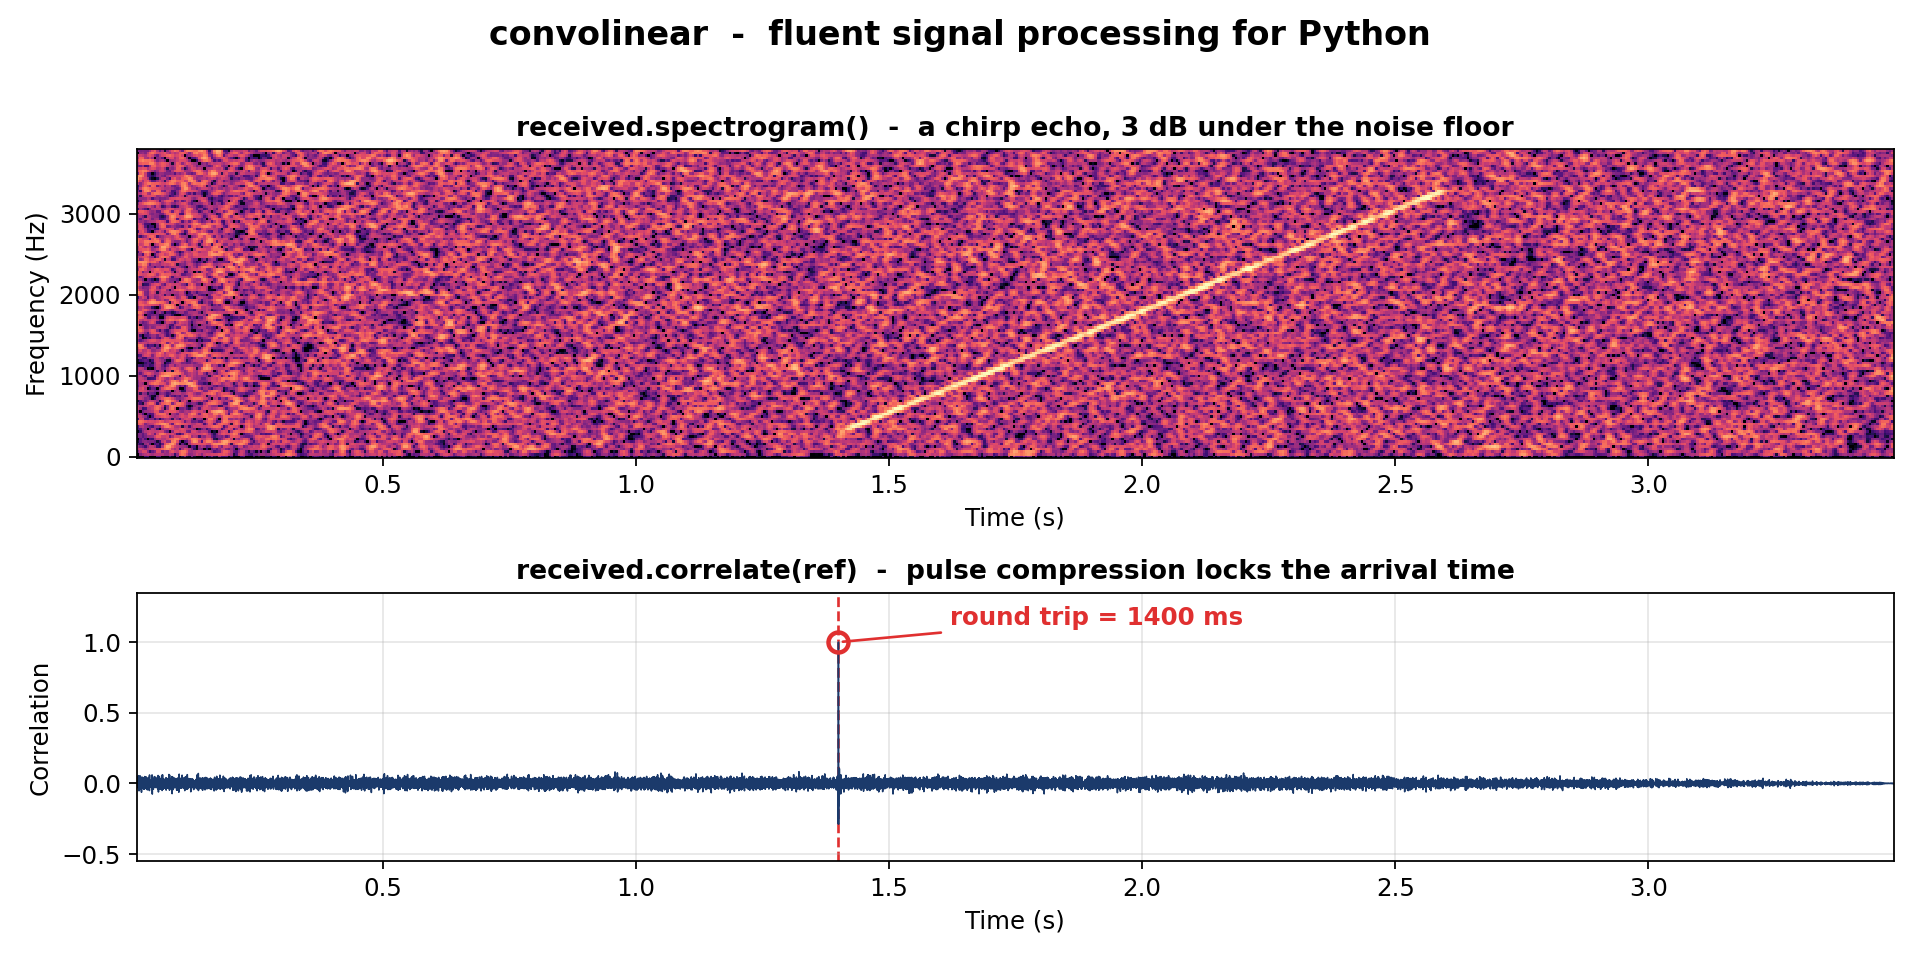
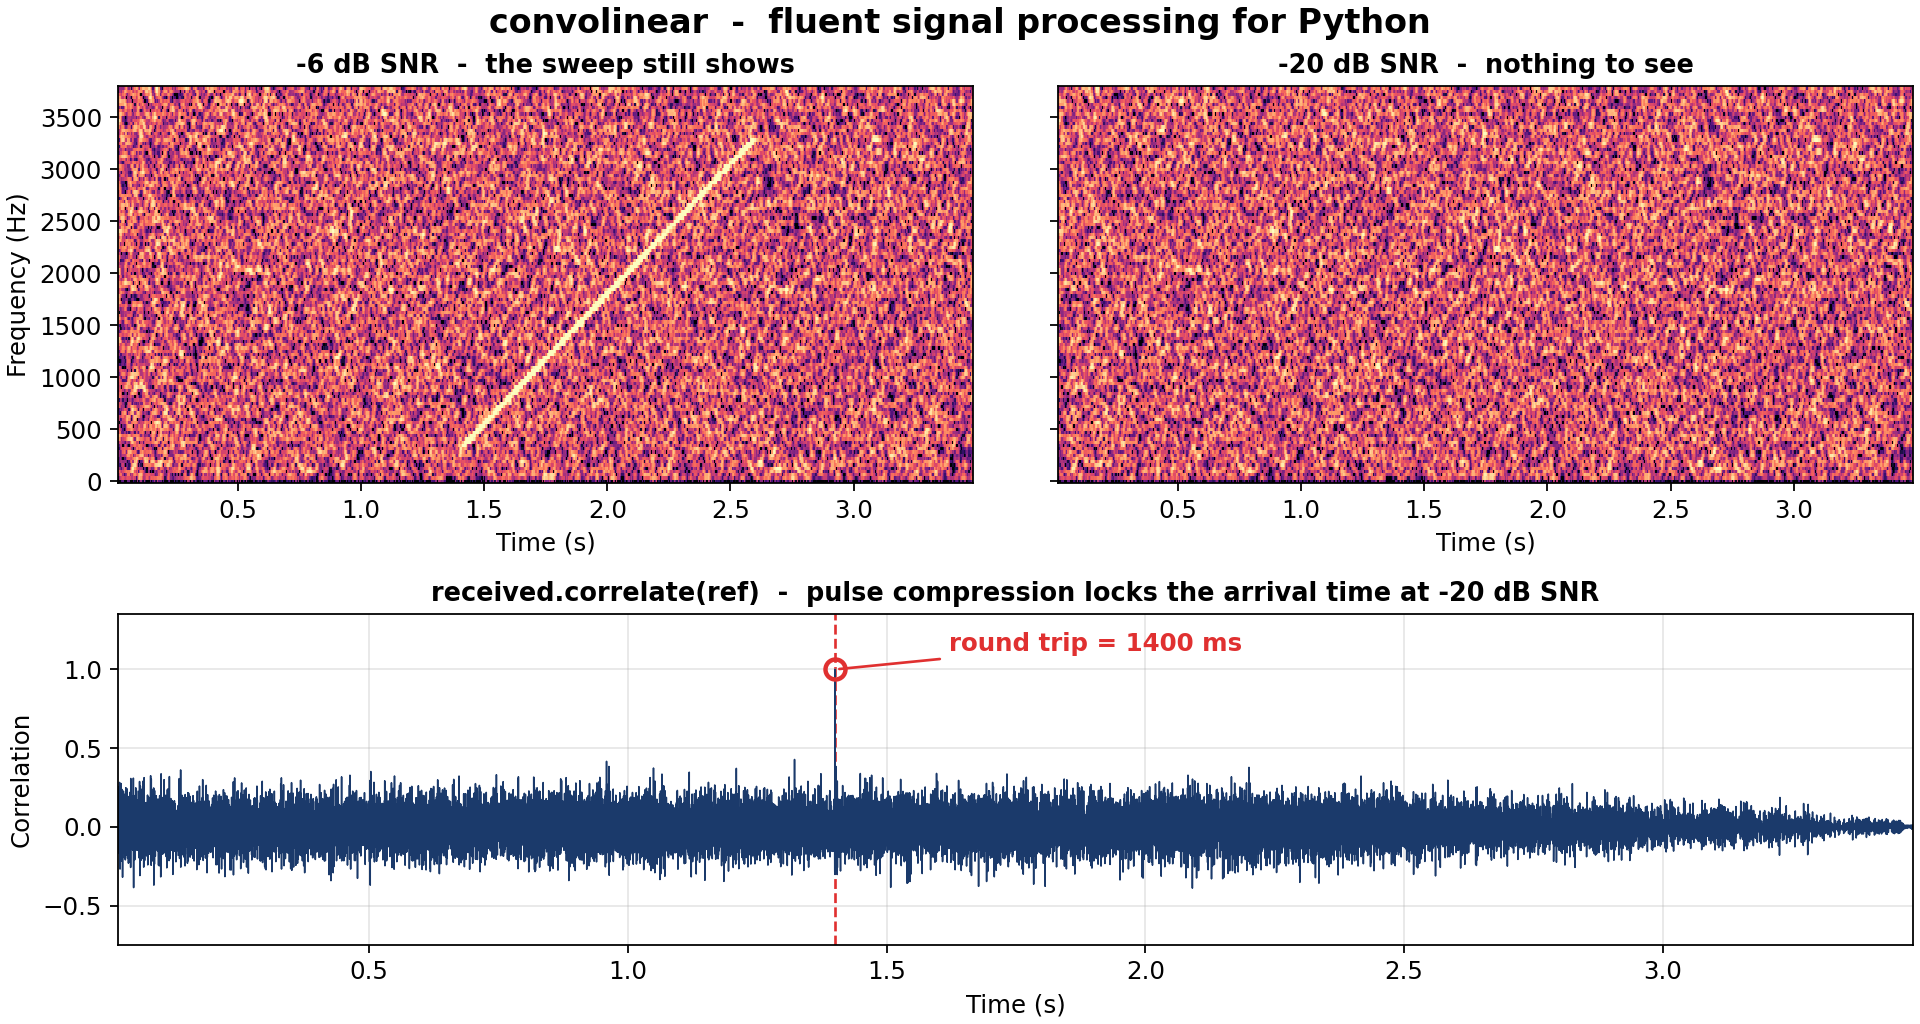
docs: update hero example and image to -20 dB SNR

diff --git a/examples/hero.py b/examples/hero.py
@@ -3,7 +3,17 @@
 Transmit a known wideband chirp, listen to a noisy return, then cross-correlate
 the return against a clean copy of what was sent. The correlation collapses the
 smeared-out echo into a single spike whose position is the round-trip delay -
-even when the echo sits below the noise floor.
+even when the echo is far too weak to see in a spectrogram.
+
+The two panels on top are the same noise with the same seed; only the echo
+amplitude differs. At -6 dB SNR the sweep is still visible because a
+time-frequency cell concentrates the chirp's energy. At -20 dB it is not
+visible at all, and correlation still recovers the delay exactly.
+
+SNR here is a power ratio: a sine of amplitude ``a`` has mean square
+``a**2 / 2``, so against unit-variance noise the SNR is
+``10 * log10(a**2 / 2)`` - that is -6.0 dB at a = 0.7 and -20.0 dB at
+a = 0.1414.
 
 Run with:  python examples/hero.py
 """
@@ -18,8 +28,11 @@ import numpy as np
 from convolinear import Signal
 
 SR = 8000
-OUT = Path(__file__).parent.parent / "hero.png"
+OUT = Path(__file__).parent.parent / "docs" / "assets" / "hero.png"
 TRUE_DELAY = 1.40  # seconds of round-trip delay we are trying to recover
+LOUD_AMPLITUDE = 0.7  # -6 dB SNR against unit-variance noise
+QUIET_AMPLITUDE = 0.1414  # -20 dB SNR against unit-variance noise
+NOISE_SIGMA = 1.0
 
 # --- Build the data ---------------------------------------------------------
 
@@ -30,42 +43,67 @@ ref = Signal.from_function(
     sample_rate=SR,
 )
 
-# Received signal: the echo returns at 1.40 s at 0.7x amplitude, buried in white
-# noise about 3 dB louder than the echo itself.
-echo = np.concatenate([np.zeros(round(TRUE_DELAY * SR)), 0.7 * ref.data, np.zeros(round(0.9 * SR))])
-received = Signal(echo + Signal.noise(len(echo) / SR, SR, amplitude=1.0, seed=1).data, SR)
+
+def receive(amplitude: float) -> Signal:
+    """Return the echo at ``amplitude``, delayed by TRUE_DELAY and buried in noise."""
+    echo = np.concatenate(
+        [np.zeros(round(TRUE_DELAY * SR)), amplitude * ref.data, np.zeros(round(0.9 * SR))]
+    )
+    noise = Signal.noise(len(echo) / SR, SR, amplitude=NOISE_SIGMA, seed=1).data
+    return Signal(echo + noise, SR)
+
+
+def snr_db(amplitude: float) -> float:
+    """Echo power relative to noise power, in dB."""
+    return float(10 * np.log10(np.mean((amplitude * ref.data) ** 2) / NOISE_SIGMA**2))
+
+
+loud = receive(LOUD_AMPLITUDE)
+quiet = receive(QUIET_AMPLITUDE)
 
 # --- Process the data --------------------------------------------------------
 
-compressed = Signal(received.correlate(ref).data[len(ref) - 1 :], SR).normalize()
-estimate = received.time_delay(ref)
+compressed = Signal(quiet.correlate(ref).data[len(ref) - 1 :], SR).normalize()
+estimate = quiet.time_delay(ref)
 
 # --- Render ------------------------------------------------------------------
 
-plt.rcParams.update({"font.size": 11, "axes.titlesize": 12, "axes.titleweight": "bold"})
-fig, (top, bottom) = plt.subplots(2, 1, figsize=(12, 6), gridspec_kw={"height_ratios": [1.15, 1]})
+plt.rcParams.update({"font.size": 11, "axes.titlesize": 11.5, "axes.titleweight": "bold"})
+fig = plt.figure(figsize=(12, 6.4), layout="constrained")
+grid = fig.add_gridspec(2, 2, height_ratios=[1.2, 1], hspace=0.05, wspace=0.04)
+ax_loud = fig.add_subplot(grid[0, 0])
+ax_quiet = fig.add_subplot(grid[0, 1], sharey=ax_loud)
+ax_corr = fig.add_subplot(grid[1, :])
 
-received.spectrogram(segment_length=256, overlap=0.85).plot(
-    max_freq=3800,
-    cmap="magma",
-    colorbar=False,
-    title="received.spectrogram()  -  a chirp echo, 3 dB under the noise floor",
-    ax=top,
+for sig, ax, caption in (
+    (loud, ax_loud, f"{snr_db(LOUD_AMPLITUDE):.0f} dB SNR  -  the sweep still shows"),
+    (quiet, ax_quiet, f"{snr_db(QUIET_AMPLITUDE):.0f} dB SNR  -  nothing to see"),
+):
+    sig.spectrogram(segment_length=256, overlap=0.85).plot(
+        max_freq=3800, cmap="magma", colorbar=False, title=caption, ax=ax
+    )
+
+# Stretch the colour range across the noise floor, and use the same range for
+# both panels so the eye is comparing like with like.
+quiet_values = np.asarray(ax_quiet.collections[0].get_array())
+clim = (np.percentile(quiet_values, 2), np.percentile(quiet_values, 99.95))
+for ax in (ax_loud, ax_quiet):
+    ax.collections[0].set_clim(*clim)
+ax_quiet.set_ylabel("")
+ax_quiet.tick_params(labelleft=False)
+
+compressed.plot(ax=ax_corr, ylabel="Correlation")
+ax_corr.set_title(
+    "received.correlate(ref)  -  pulse compression locks the arrival time at "
+    f"{snr_db(QUIET_AMPLITUDE):.0f} dB SNR"
 )
-# Stretch the colour range across the noise floor so the sweep stands out.
-mesh = top.collections[0]
-values = np.asarray(mesh.get_array())
-mesh.set_clim(np.percentile(values, 2), np.percentile(values, 99.95))
+ax_corr.lines[0].set(color="#1b3a6b", linewidth=0.7)
+ax_corr.set_xlim(*ax_loud.get_xlim())
+ax_corr.set_ylim(-0.75, 1.35)
 
-compressed.plot(ax=bottom, ylabel="Correlation")
-bottom.set_title("received.correlate(ref)  -  pulse compression locks the arrival time")
-bottom.lines[0].set(color="#1b3a6b", linewidth=0.7)
-bottom.set_xlim(*top.get_xlim())
-bottom.set_ylim(-0.55, 1.35)
-
-bottom.axvline(estimate, color="#e03030", lw=1.2, ls="--", zorder=1)
-bottom.plot([estimate], [1.0], marker="o", ms=9, mfc="none", mec="#e03030", mew=2, zorder=3)
-bottom.annotate(
+ax_corr.axvline(estimate, color="#e03030", lw=1.2, ls="--", zorder=1)
+ax_corr.plot([estimate], [1.0], marker="o", ms=9, mfc="none", mec="#e03030", mew=2, zorder=3)
+ax_corr.annotate(
     f"round trip = {estimate * 1000:.0f} ms",
     xy=(estimate, 1.0),
     xytext=(estimate + 0.22, 1.12),
@@ -75,6 +113,10 @@ bottom.annotate(
 )
 
 fig.suptitle("convolinear  -  fluent signal processing for Python", fontsize=15, fontweight="bold")
-fig.tight_layout(rect=(0, 0, 1, 0.97))
+OUT.parent.mkdir(parents=True, exist_ok=True)
 fig.savefig(OUT, dpi=160)
-print(f"wrote {OUT}  (true delay {TRUE_DELAY * 1000:.0f} ms, estimated {estimate * 1000:.0f} ms)")
+print(f"wrote {OUT}")
+print(
+    f"true delay {TRUE_DELAY * 1000:.0f} ms, estimated {estimate * 1000:.0f} ms; "
+    f"SNR {snr_db(LOUD_AMPLITUDE):.1f} dB and {snr_db(QUIET_AMPLITUDE):.1f} dB"
+)

diff --git a/README.md b/README.md
@@ -10,13 +10,14 @@
 Fluent signal processing for Python, one line at a time.
 
 <p align="center">
-  <img src="https://raw.githubusercontent.com/sahmed0/convolinear/main/docs/assets/hero.png" alt="convolinear pulse compression: a chirp echo buried 3 dB under white noise in a spectrogram, recovered as a single correlation spike at 1400 ms" width="900">
+  <img src="https://raw.githubusercontent.com/sahmed0/convolinear/main/docs/assets/hero.png" alt="convolinear pulse compression: the same chirp echo shown at -6 dB SNR, where the sweep is still visible in a spectrogram, and at -20 dB SNR, where it is not; one correlate() call recovers the 1400 ms round-trip delay in both cases" width="900">
 </p>
 
 <p align="center">
-  <em>Pulse compression - the core of every radar, sonar and GPS receiver. A chirp echo sits 3 dB
-  under the noise floor; one <code>correlate()</code> call collapses it into a spike at the exact
-  round-trip delay. Reproduce with <code>python examples/hero.py</code>.</em>
+  <em>Pulse compression - the core of every radar, sonar and GPS receiver. The same echo is shown
+  at -6 dB and at -20 dB SNR (echo power against noise power). At -20 dB the spectrogram shows
+  nothing at all, and one <code>correlate()</code> call still collapses the echo into a spike at
+  the exact round-trip delay. Reproduce with <code>python examples/hero.py</code>.</em>
 </p>
 
 `convolinear` wraps the power of NumPy and SciPy in a fluent, readable API. Common DSP tasks -
